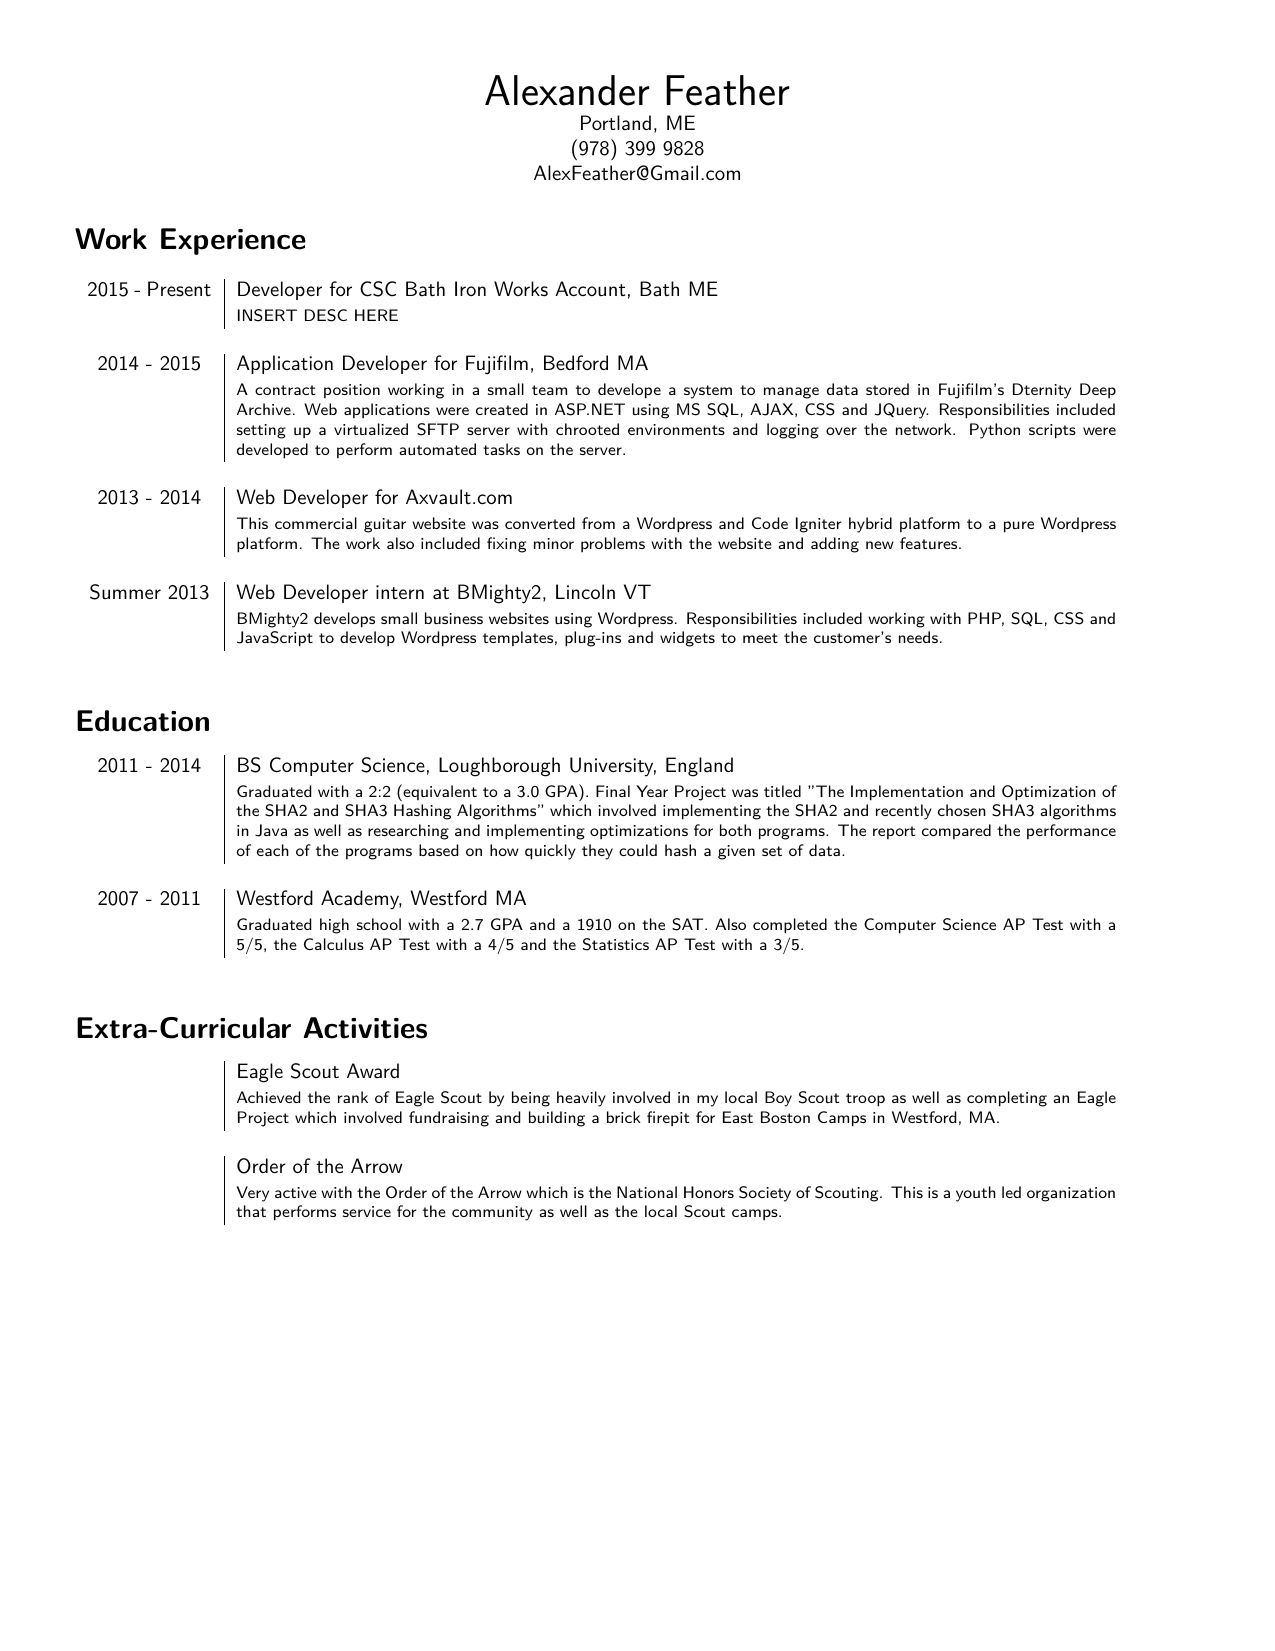
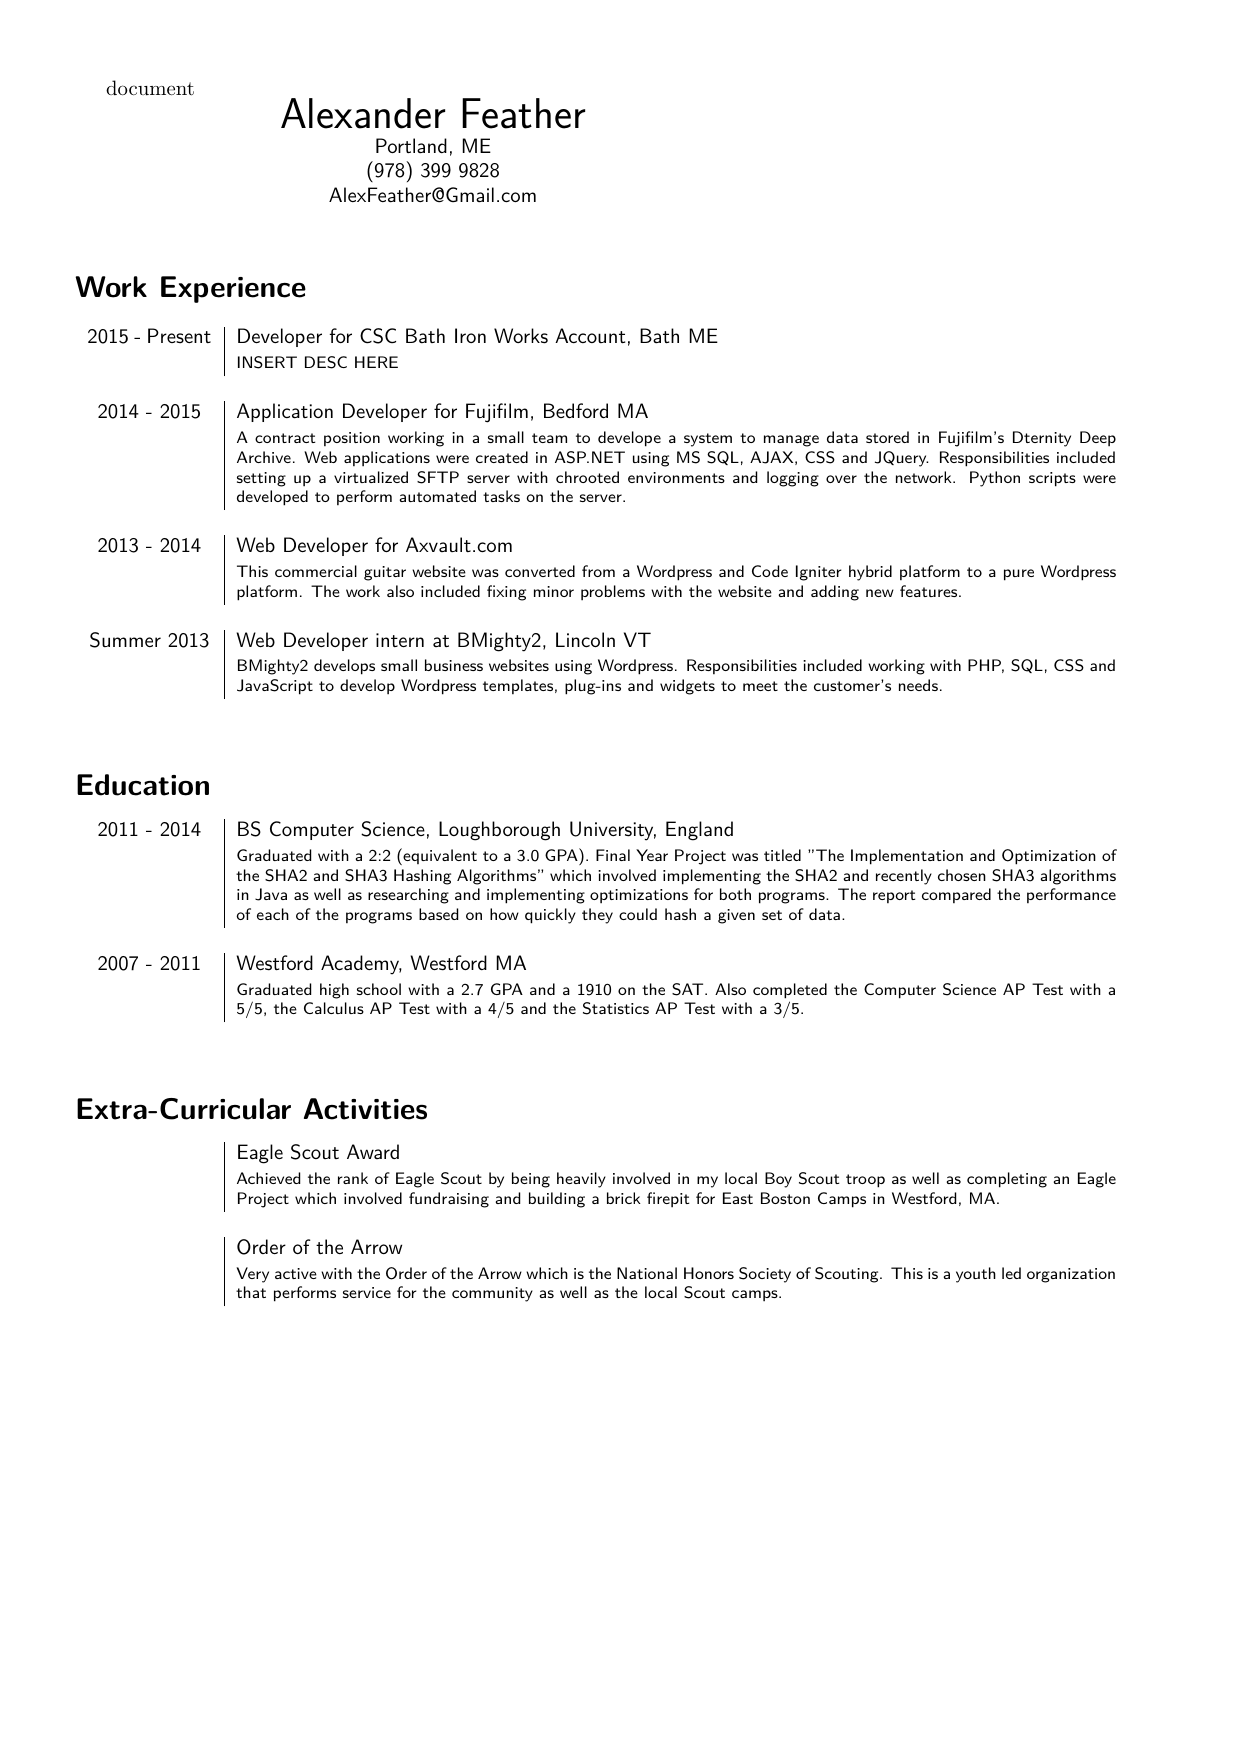
Updated Resume Files

diff --git a/Resume.tex b/Resume.tex
@@ -3,7 +3,7 @@
 \usepackage[margin=0.5in]{geometry}
 \usepackage{hyperref}
 
-\begin{document}
+\abegin{document}
 \pagestyle{empty}
 \fontfamily{lmss}\selectfont
 
